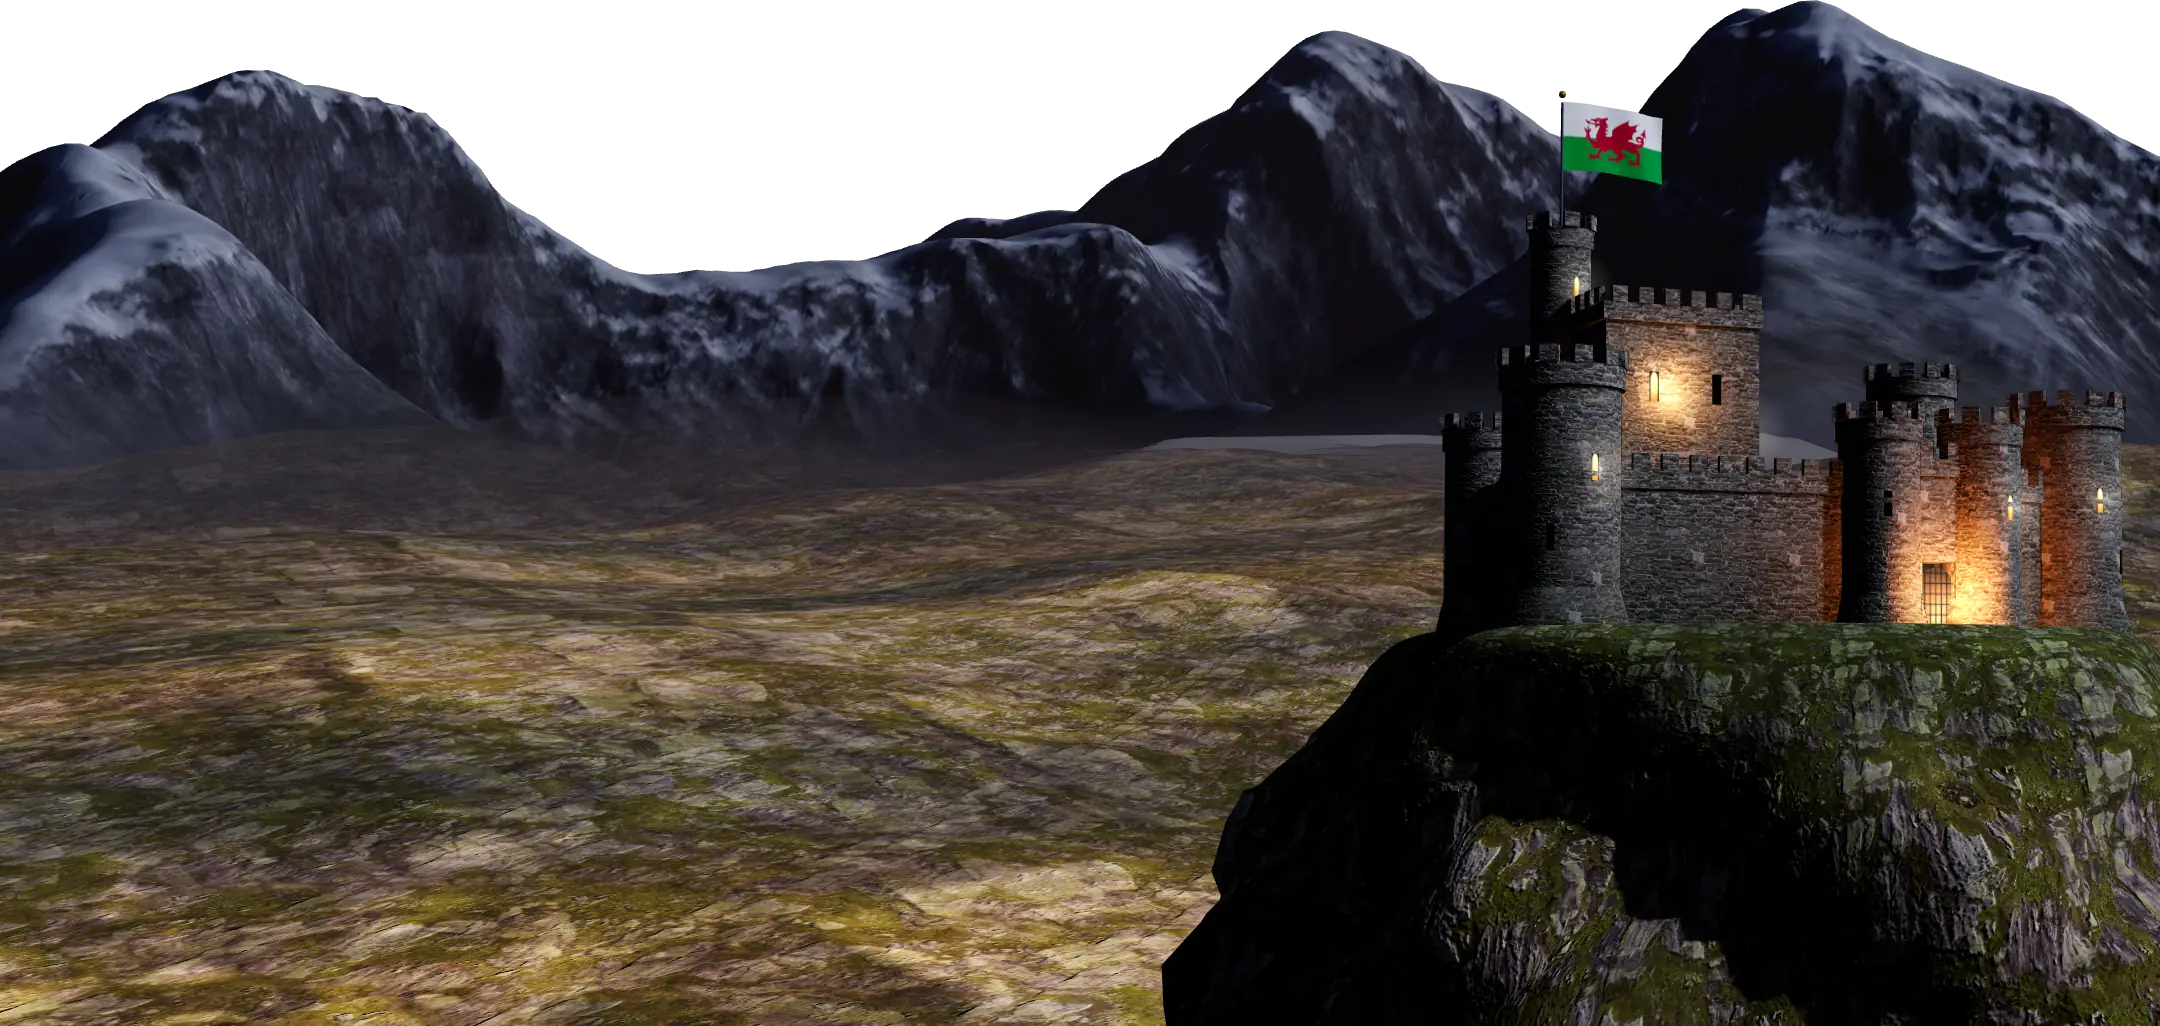
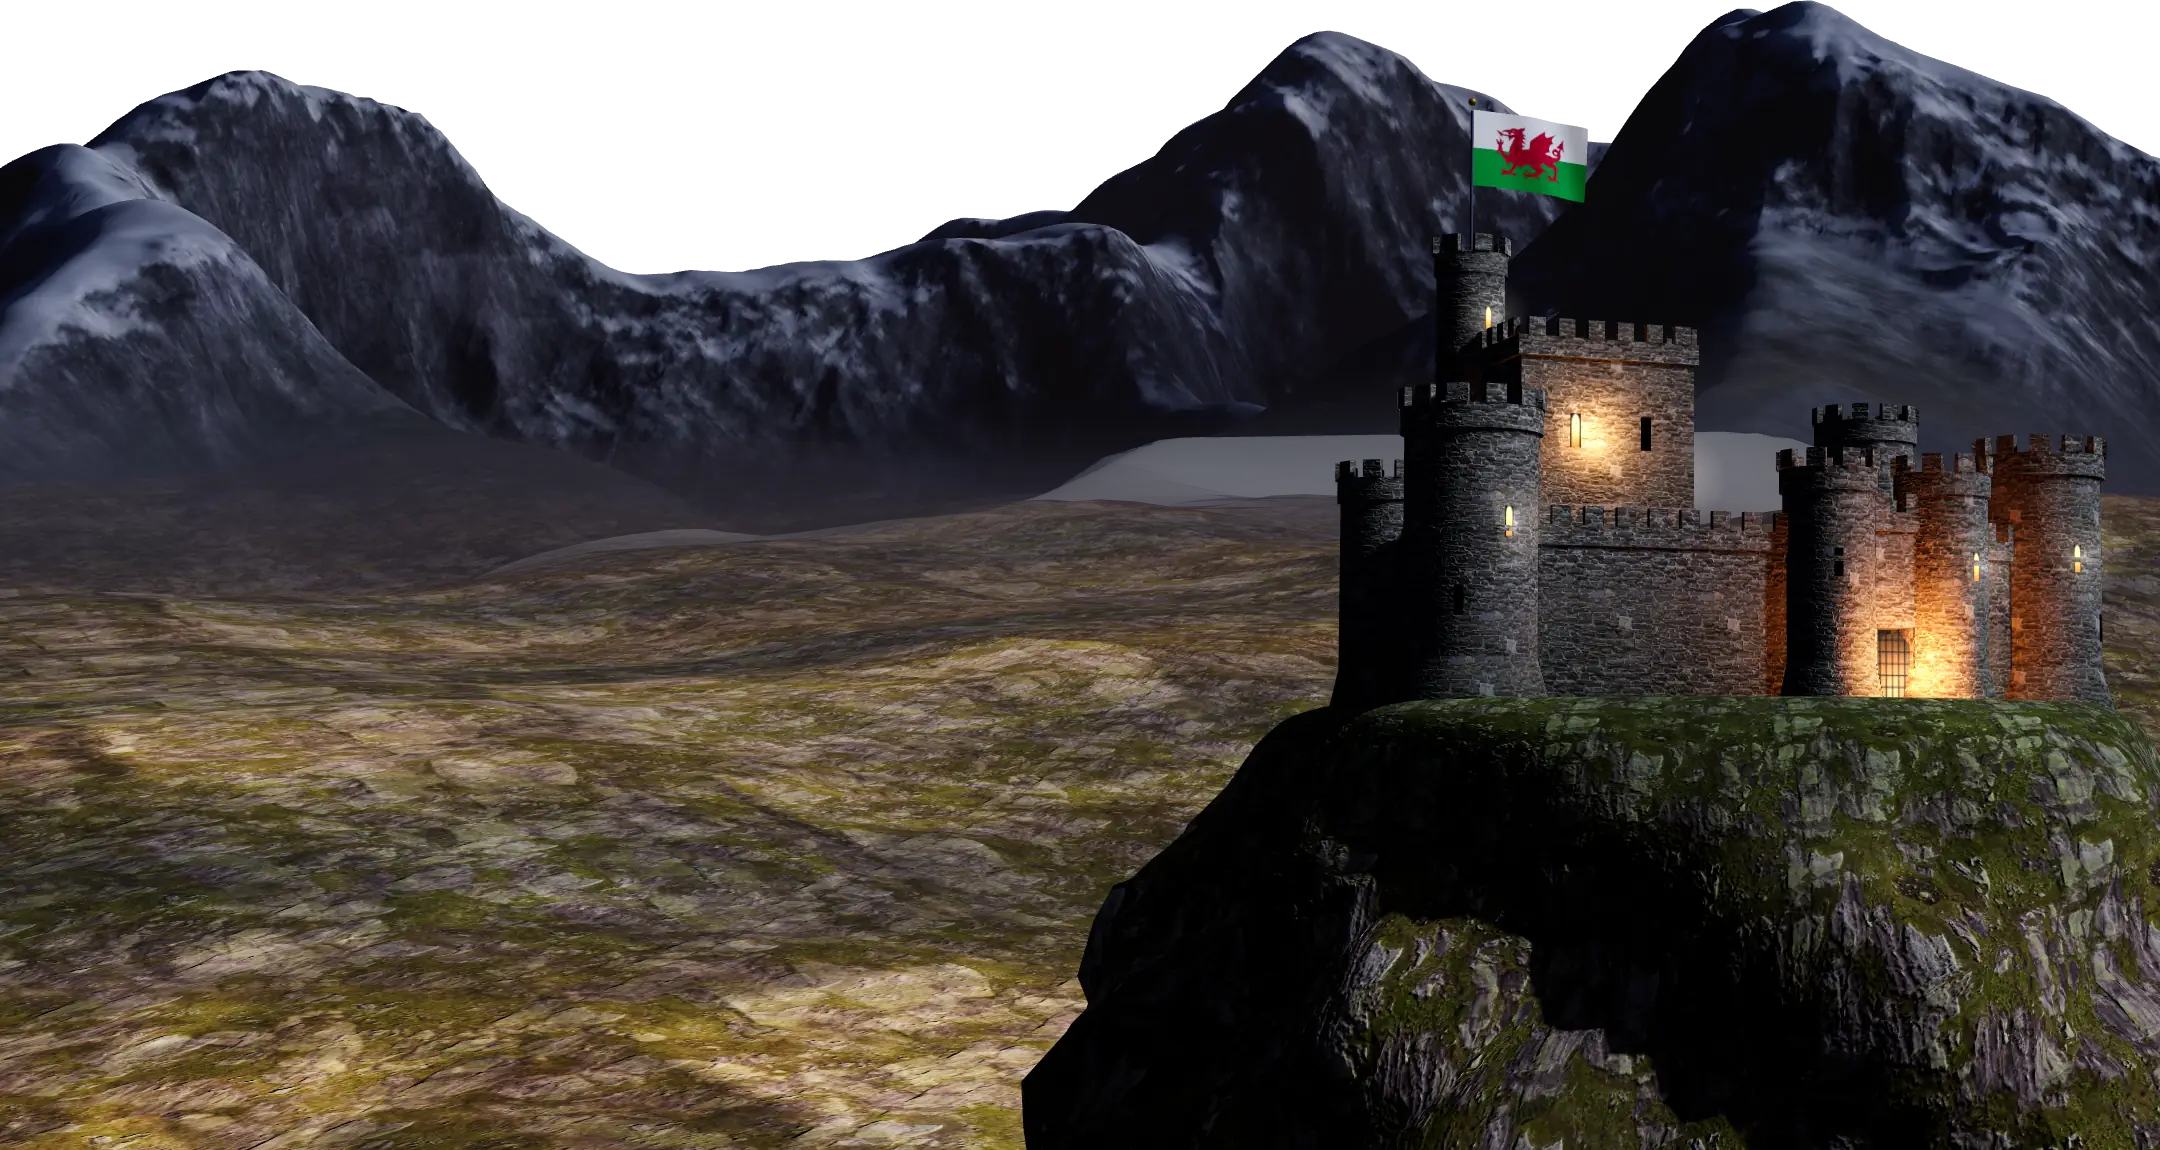
Hero: longer introduction under the tagline, scroll-down cue removed (Ifan)
- The oldest living language in Britain... now a short paragraph, English and Welsh
- The mouse-shaped scroll cue at the foot of the opening screen is gone
- Still pictures for slow connections taken again for the taller hero; STILL_REF updated

Claude-Session: https://claude.ai/code/session_01HQpyg8rLknSR8Q8VFDuTGp

diff --git a/src/head.html b/src/head.html
@@ -325,7 +325,7 @@ __NAV__
     <h1 aria-label="Cymru: the history of Wales"><em class="sr-only">The history of Wales: </em><span style="--i:0">C</span><span class="y" style="--i:1">y</span><span style="--i:2">m</span><span style="--i:3">r</span><span style="--i:4">u</span></h1>
     <div class="sub">
       <p class="tag"><span data-cy="Gwlad y brenhinoedd, y tywysogion, y cestyll, y beirdd a’r seintiau.">A land of kings, princes, castles, poets, and saints.</span> <span data-cy="Wedi’i chodi ar lo, llechi, haearn, copr a gwlân.">Built on coal, slate, iron, copper, and wool.</span></p>
-      <p data-cy="Iaith fyw hynaf Prydain, pymtheg canrif o frenhinoedd a thywysogion, seintiau a beirdd, a chenedl sydd yma o hyd.">The oldest living language in Britain, fifteen centuries of kings and princes, saints and poets, and a nation that is still here.</p>
+      <p data-cy="Iaith fyw hynaf Prydain, a phymtheg canrif o frenhinoedd a thywysogion, seintiau a beirdd. Rhoddodd y Brythoniaid a ddaeth yn Gymry gyfreithiau Hywel Dda a chwedlau’r Mabinogi i’r byd, codi capeli a chestyll, a chloddio’r glo a’r llechi a yrrodd ac a doiodd y byd. Drwy goncwest a’r Welsh Not, goroesodd yr iaith, ac mae’r genedl yma o hyd.">The oldest living language in Britain, and fifteen centuries of kings and princes, saints and poets. The Britons who became the Cymry gave the world the laws of Hywel Dda and the tales of the Mabinogi, raised chapels and castles, and dug the coal and slate that powered and roofed the world. Through conquest and the Welsh Not the language lived on, and the nation is still here.</p>
     </div>
     <!-- three clear ways in for a first-time visitor (Ifan, 2026-11-12); the daily features are further down the page -->
     <nav class="begin" aria-labelledby="begin-h">
@@ -336,7 +336,6 @@ __NAV__
         <a class="begin-card" href="trails.html"><svg aria-hidden="true"><use href="#i-mtn"/></svg><span class="b-t" data-cy="Dilyn llwybr thema">Follow a themed trail</span><span class="b-s" data-cy="Menywod Cymru, y môr, capel a chân, haearn a glo">Women of Wales, the sea, chapel and song, iron and coal</span><i aria-hidden="true">→</i></a>
       </div>
     </nav>
-    <a class="scroll-cue" href="#chapters" aria-label="Scroll down"></a>
   </div>
   <div class="ticker">
     <div class="wrap">

diff --git a/src/v6.css b/src/v6.css
@@ -98,13 +98,9 @@ html.menu-open { overflow: hidden }
 @keyframes glint { 0% { background-position: 100% 0, 0 0 } 14%, 100% { background-position: 0% 0, 0 0 } }
 @media (prefers-reduced-motion: reduce) { .hero h1 span { animation: none } }
 /* the words under the title follow it in, one after the other */
-.hero .sub p, .hero .scroll-cue { animation: h-in .9s var(--ease, ease) both }
-.hero .sub p:first-child { animation-delay: .9s } .hero .sub p + p { animation-delay: 1.1s } .hero .scroll-cue { animation-delay: 2.4s }
-.scroll-cue { position: absolute; left: 50%; bottom: 1.1rem; translate: -50% 0; width: 1.5rem; height: 2.4rem; border: 1.5px solid rgba(236,233,225,.45); border-radius: 1rem; display: none }
-.scroll-cue::after { content: ""; position: absolute; left: 50%; top: .45rem; width: 3px; height: .5rem; margin-left: -1.5px; border-radius: 2px; background: var(--ink, #ece9e1); animation: cue 1.9s var(--ease, ease) infinite }
-@keyframes cue { 0% { transform: translateY(0); opacity: 0 } 25% { opacity: 1 } 80%, 100% { transform: translateY(.8rem); opacity: 0 } }
-@media (min-width: 1100px) and (min-height: 620px) { .hero > .wrap { position: relative } .scroll-cue { display: block } }
-@media (prefers-reduced-motion: reduce) { .scroll-cue::after { animation: none; opacity: 1 } }
+.hero .sub p { animation: h-in .9s var(--ease, ease) both }
+.hero .sub p:first-child { animation-delay: .9s } .hero .sub p + p { animation-delay: 1.1s }
+@media (min-width: 1100px) and (min-height: 620px) { .hero > .wrap { position: relative } }
 /* ---------- where to begin: three ways in, beside the introduction (Ifan, 2026-11-12) ---------- */
 .begin { margin-top: clamp(1.4rem, 3vw, 2.2rem); max-width: 50rem; animation: h-in .9s var(--ease, ease) 1.3s both }
 @media (min-width: 1100px) { .begin { max-width: min(50rem, 56vw) } }  /* on wide screens the castle stands to the right; keep the cards clear of it */

diff --git a/src/app.js b/src/app.js
@@ -33,7 +33,7 @@
   var STILL_IMG = { land: null, dragon: null, ref: null };
   /* how the pictures were taken (tools: see SKILLS.md "Still pictures of the 3D land"): w = page width, d = pixels per CSS pixel,
      h = hero height, b = how far the bottom of the picture runs below the row of figures (p) or the hero's foot (w) */
-  var STILL_REF = { p: { w: 390, d: 1.5, h: 1040, b: 220 }, w: { w: 1440, d: 1.5, h: 868, b: 0 } };
+  var STILL_REF = { p: { w: 390, d: 1.5, h: 1160, b: 220 }, w: { w: 1440, d: 1.5, h: 977, b: 0 } };
   var MONTHS_EN = ["January","February","March","April","May","June","July","August","September","October","November","December"];
   var MONTHS_CY = ["Ionawr","Chwefror","Mawrth","Ebrill","Mai","Mehefin","Gorffennaf","Awst","Medi","Hydref","Tachwedd","Rhagfyr"];
 

diff --git a/SKILLS.md b/SKILLS.md
@@ -913,3 +913,4 @@ Learnt while writing the Druids long read (`src/druids.py`, `story-druids.html`)
 - Ifan sends a screenshot plus a short note, and each change is made, checked and published within minutes.
 - Small visual tweaks are published one at a time so each can be seen live.
 - **Hero and logo spacing (Ifan, 13 November 2026).** The small "History of Wales" / "Hanes Cymru" line above the big Cymru was removed on 14 November 2026 at Ifan's request (`HERO_NAME` in `build.py` is empty); don't put it back without asking. The big Cymru has `margin-left: -.035em` so the C's edge lines up with the H above (the C has a wide side bearing in Gloock). Ifan wants the gaps between the words even. Gloock leaves a wide gap after "History" and sets the f of "of" almost against the W of "Wales", so the logo (`BRAND` in `build.py`) nudges "of" (.05em) and "Wales" (.2em) with spans (`.brand .b-of`, `.brand .b-wales` in `src/v6.css`). Measure gaps from a screenshot (columns with no ink), not by eye.
+- **Hero words and the scroll cue (Ifan, 14 November 2026).** The line under the tagline is a short paragraph (Britons who became the Cymry, Hywel Dda's laws, the Mabinogi, chapels and castles, coal and slate, the Welsh Not), English and Welsh, in `src/head.html`. The little mouse-shaped scroll-down cue at the foot of the opening screen was removed at Ifan's request; don't add it back. Whenever the hero's words change its height, take the still pictures again and update `STILL_REF`.
